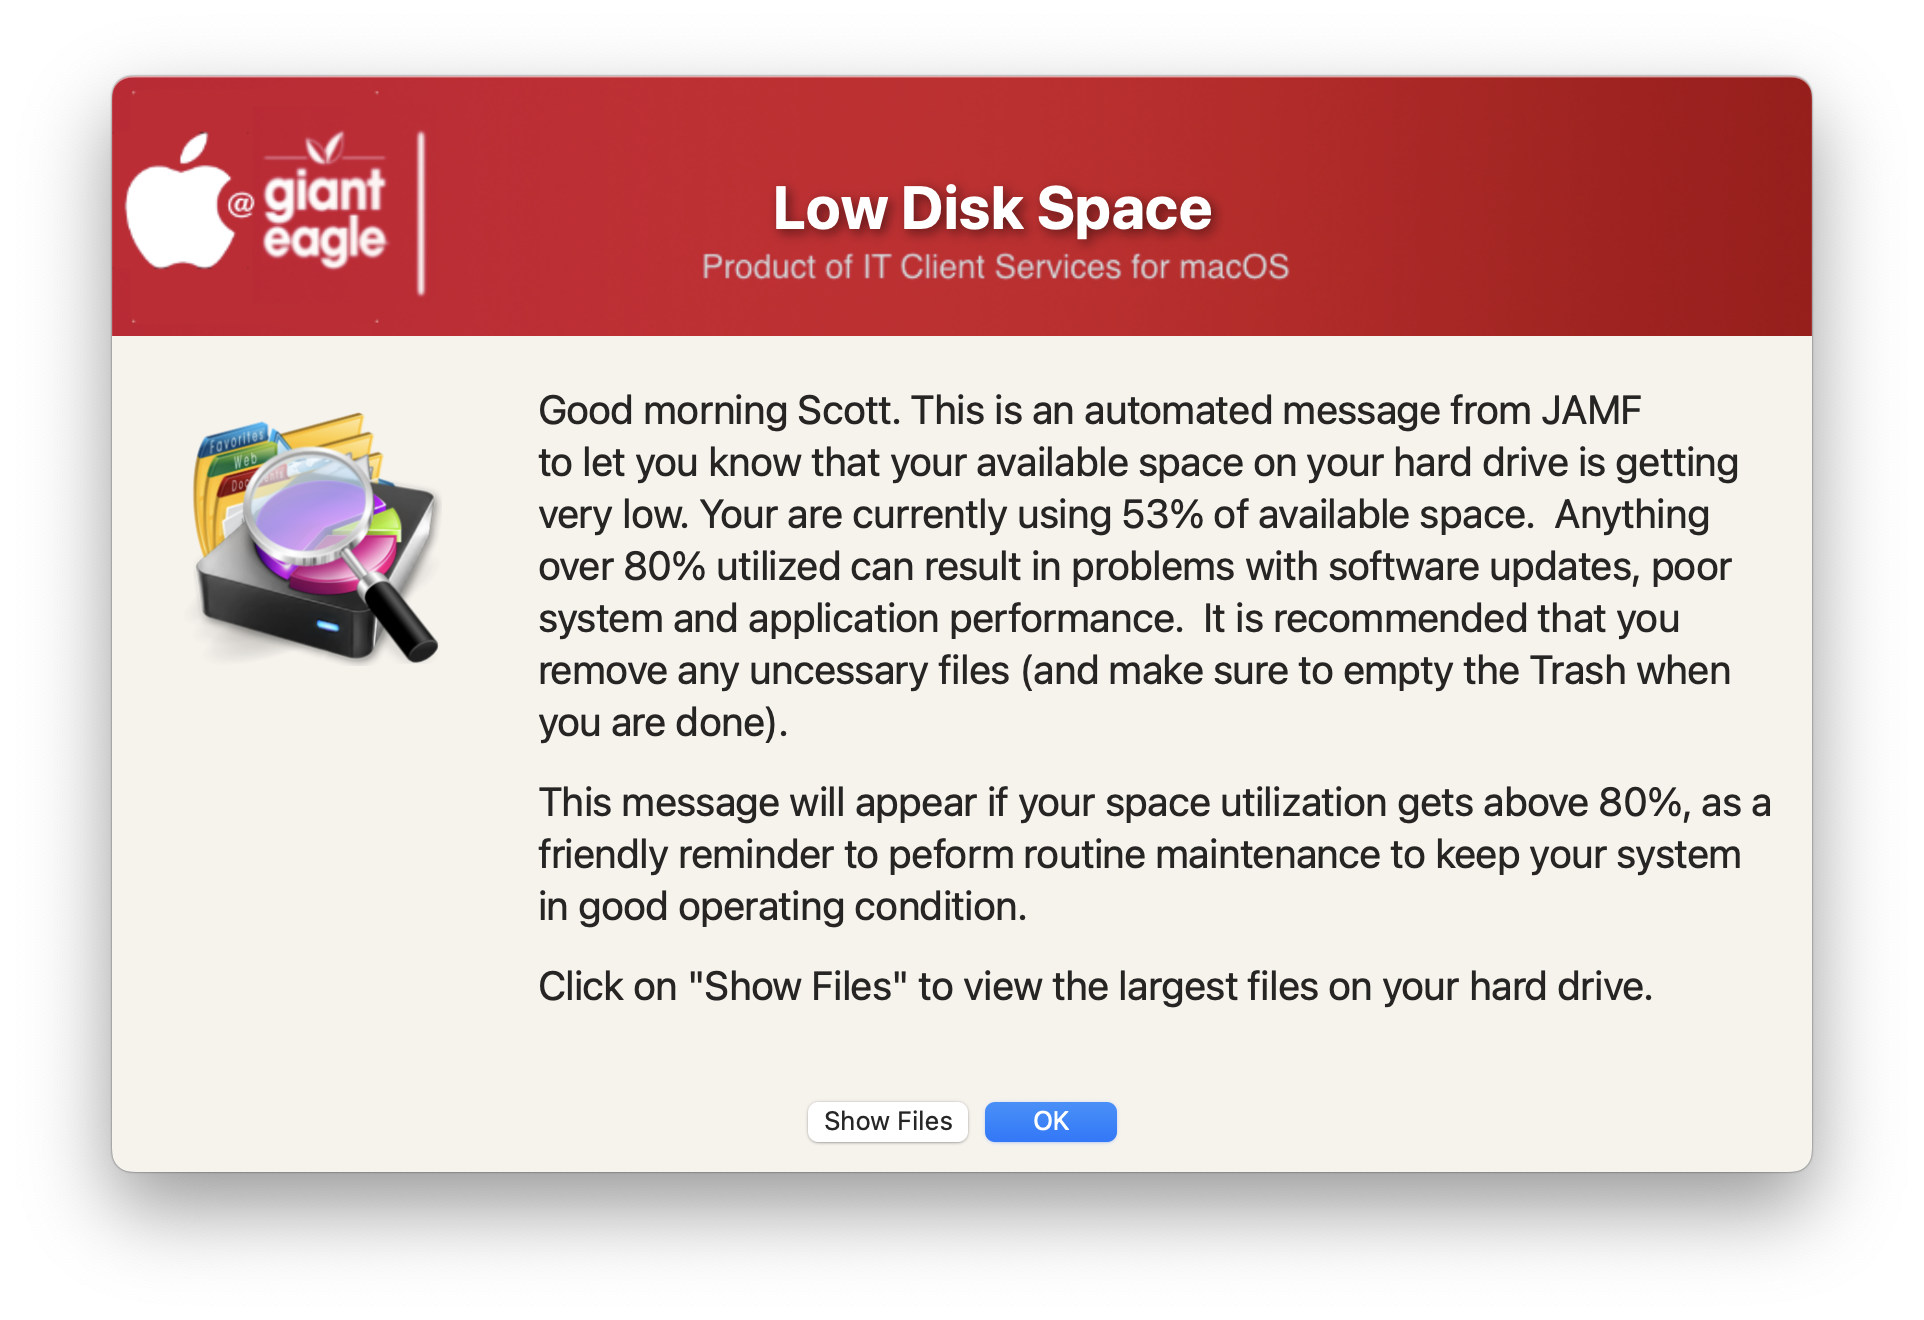
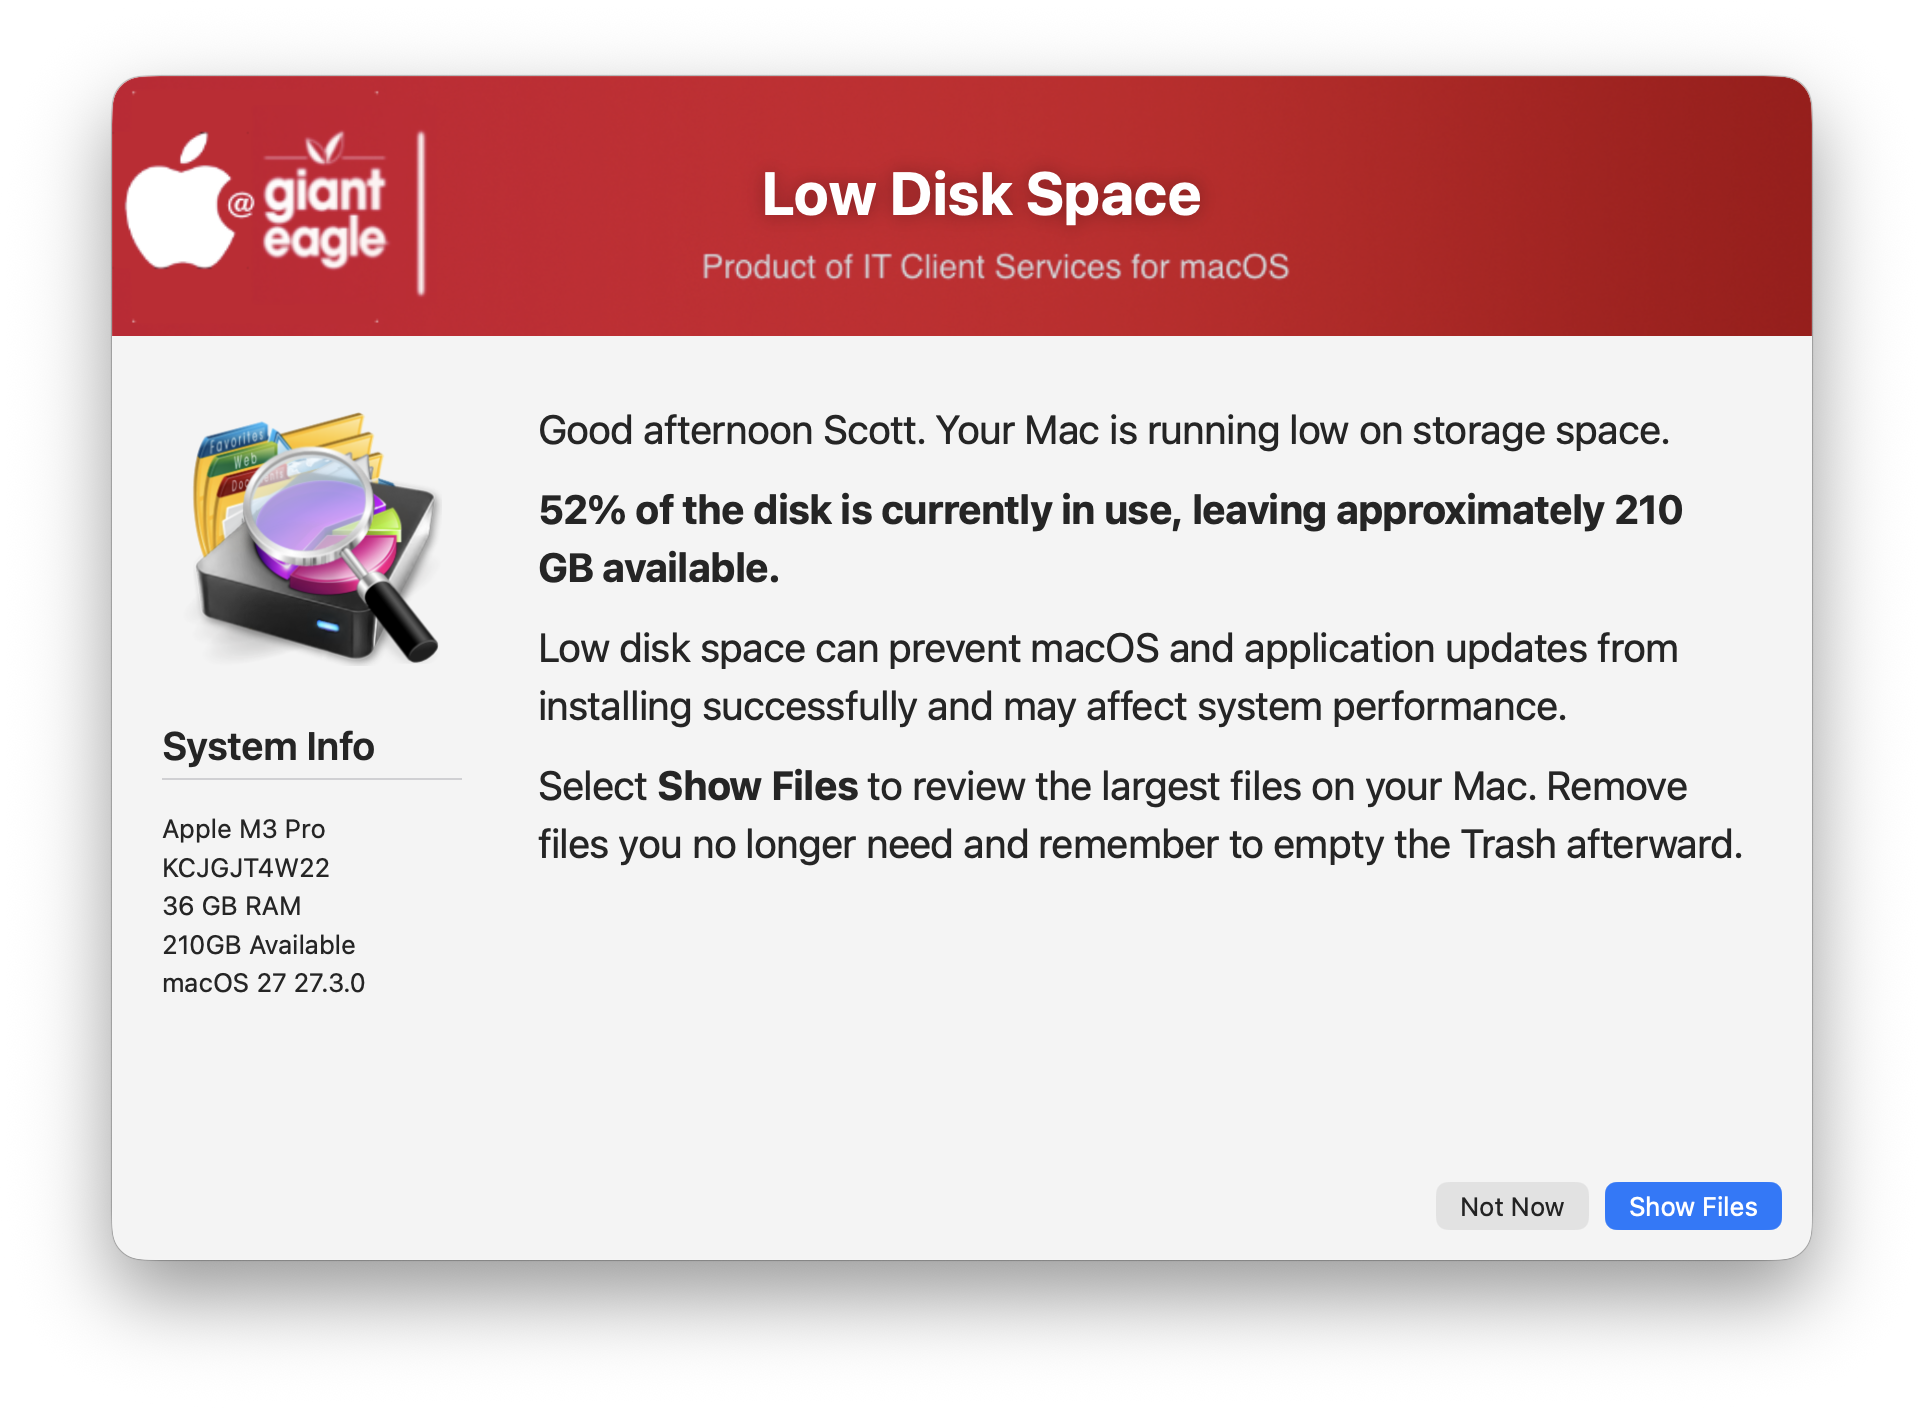
Display notification of low disk space

Changed region(s): [[0.0624, 0.0932, 0.9356, 0.7765], [0.0624, 0.8076, 0.9356, 0.9008], [0.0624, 0.0311, 0.9356, 0.0621]]

diff --git a/LowDiskSpace/README.md b/LowDiskSpace/README.md
@@ -39,4 +39,11 @@ echo "<result>$(printf "%02d\n" $DU)</result>"
 ||       Fixed variable names in the defaults file section
 | 2.0 | Updated SD Version requirements to 3.1.0
 ||       Added ability to set subtitle, color, and padding from defaults file
+| 2.1 | Updated disk usage calculation to use the APFS Data volume
+||       Added available disk space to the user notification
+||       Updated dialog messaging and button layout
+||       Added "Not Now" option and made "Show Files" the primary action
+||       Improved Jamf policy execution and error handling
+||       Added root and SwiftDialog prerequisite validation
+||       Improved logging and general code cleanup
 
